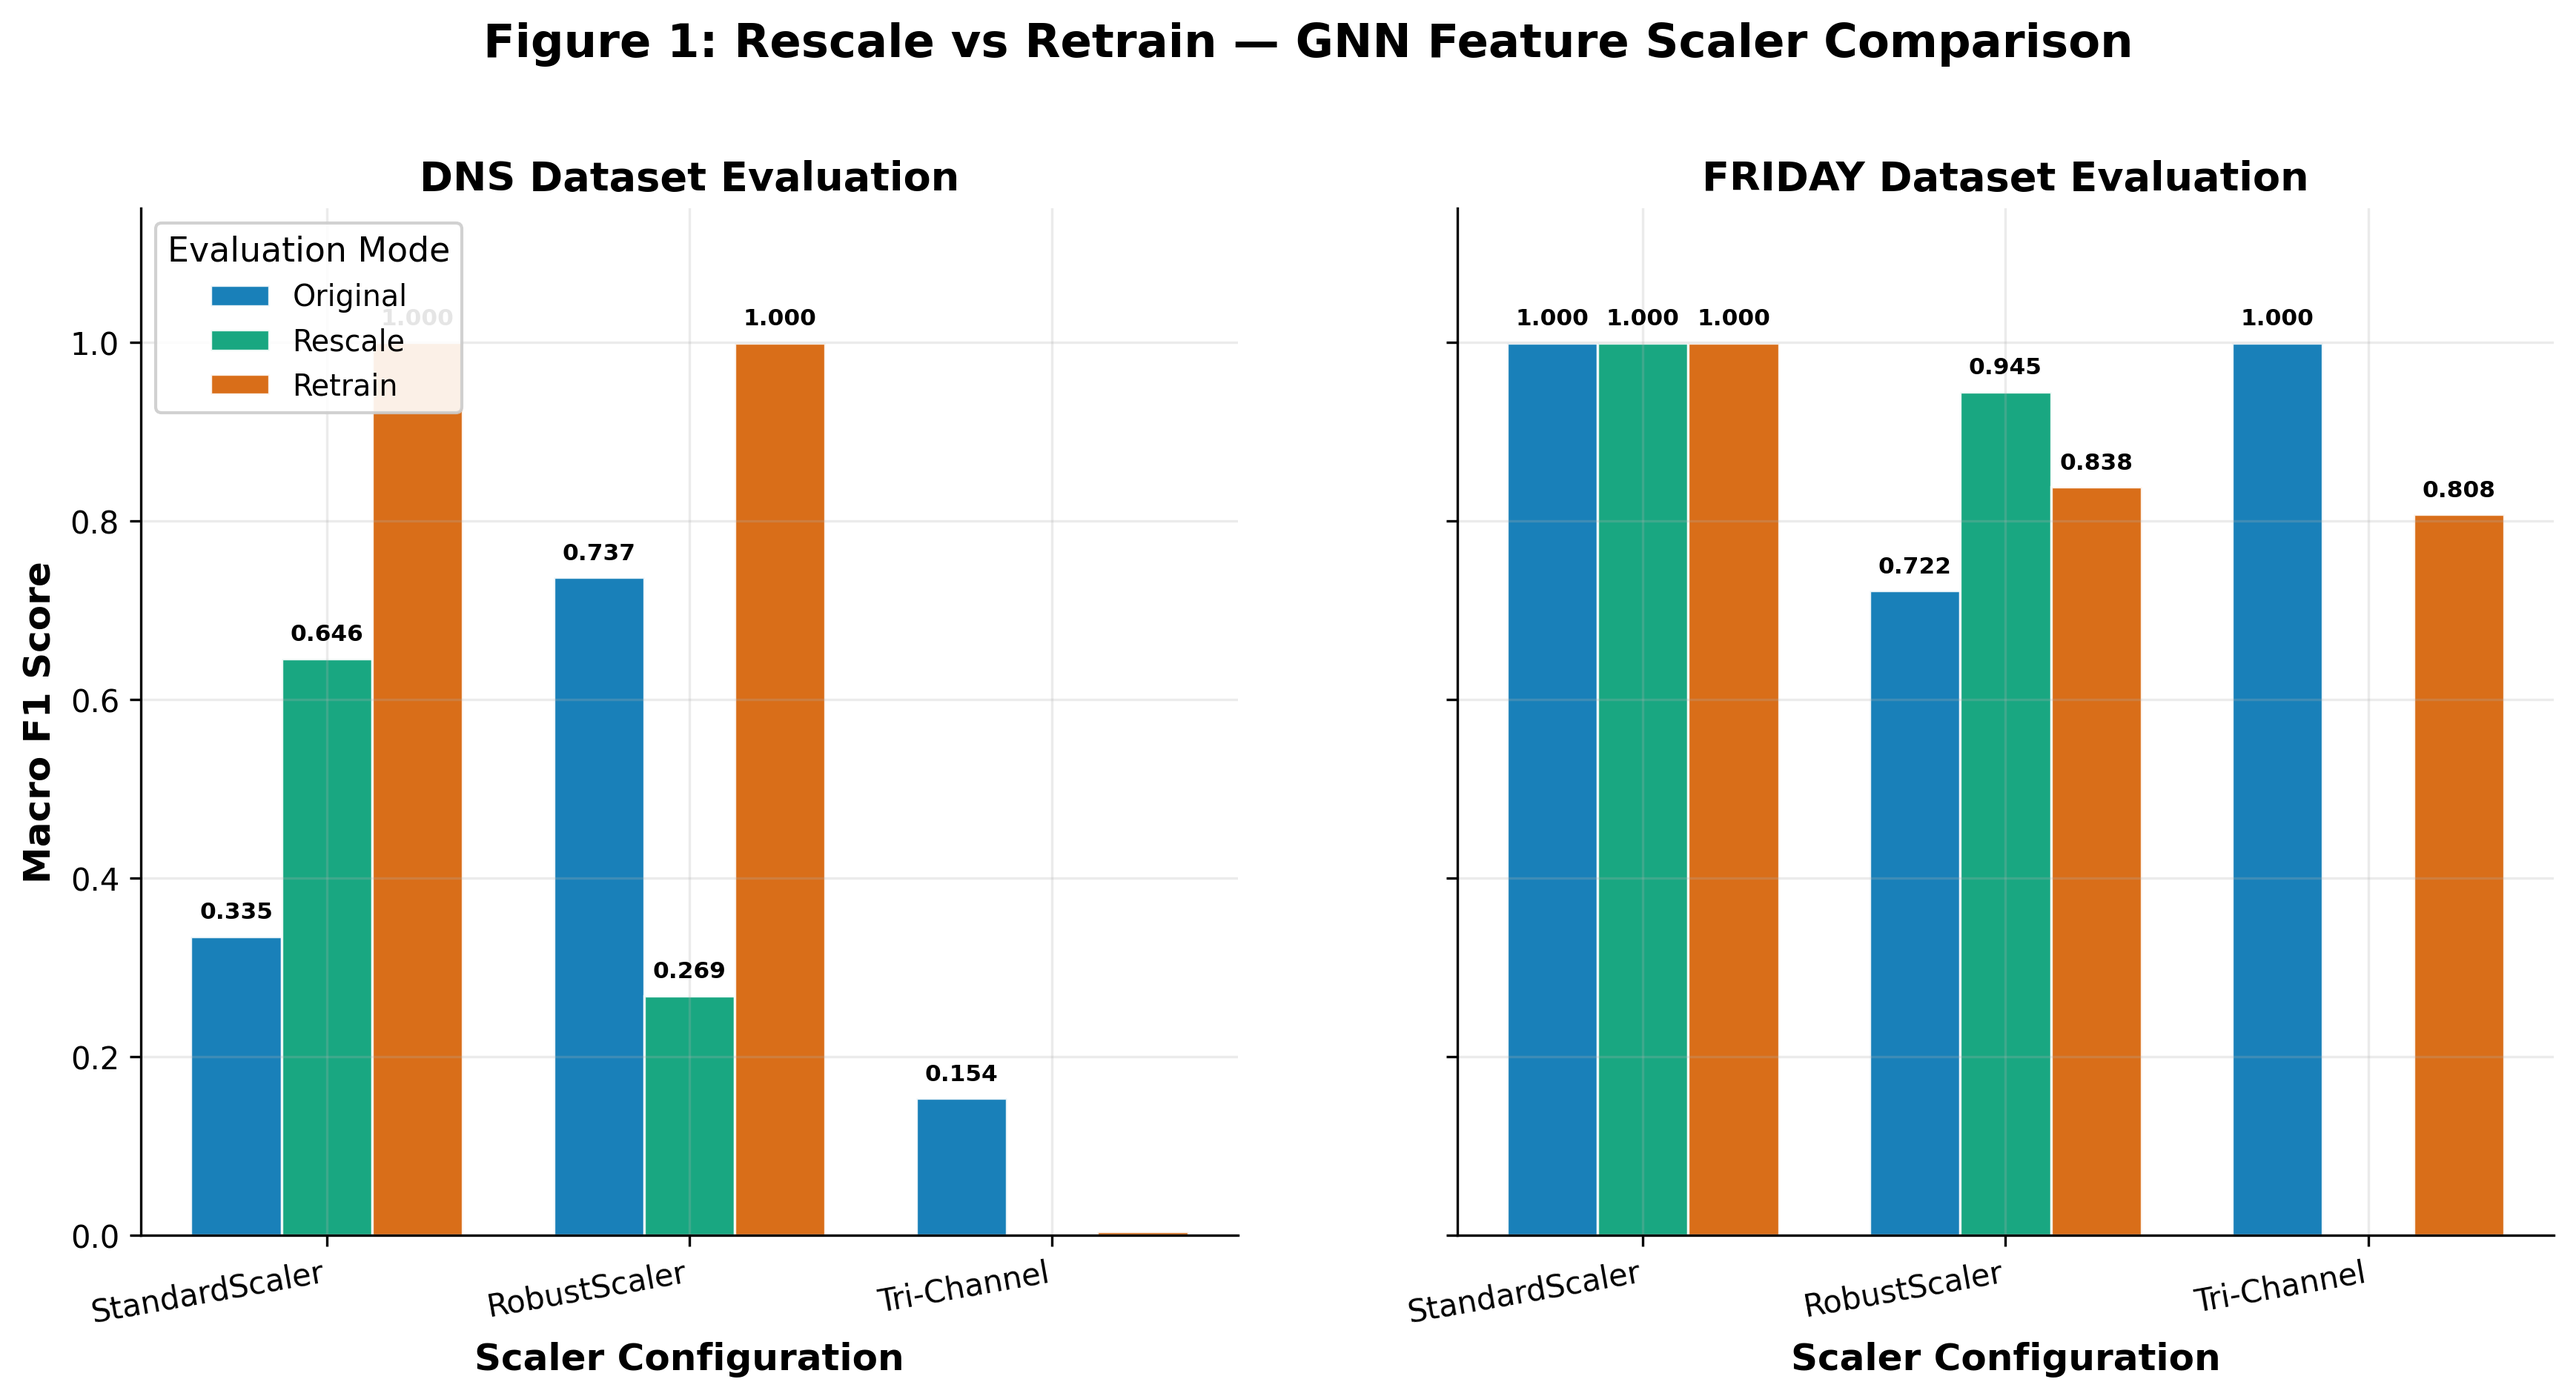
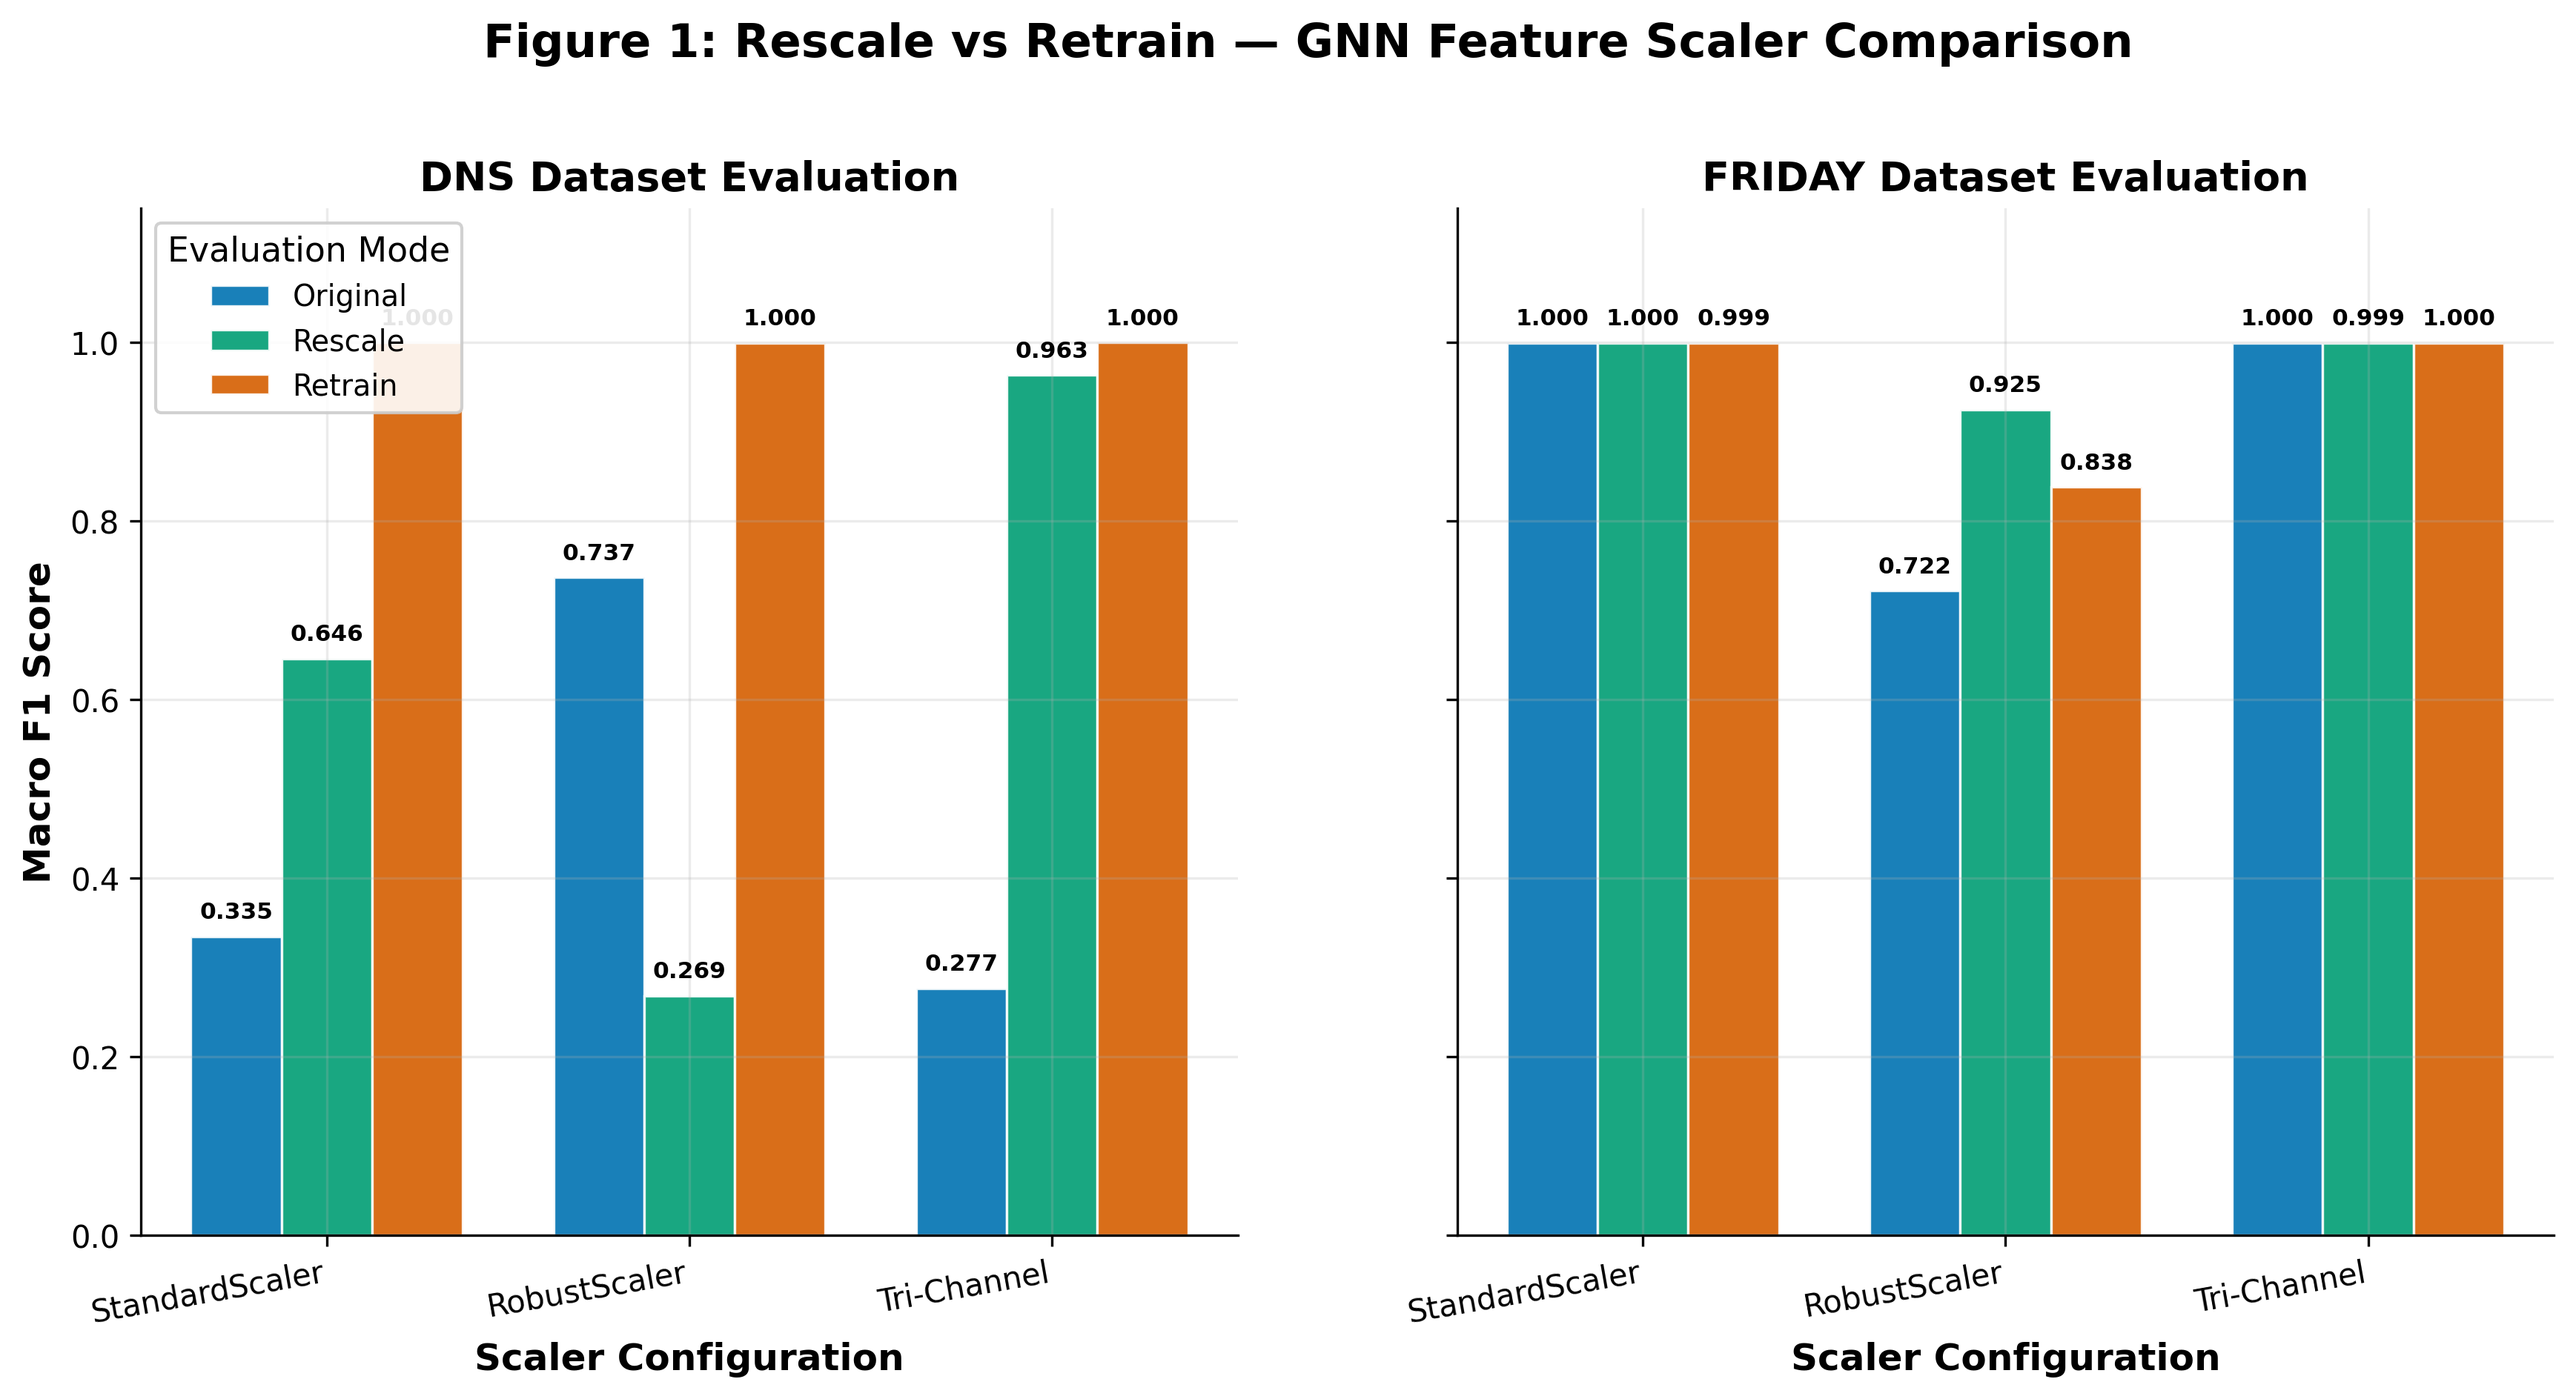
fix(figure1): resolve zero-F1 collapse by prioritizing raw multi-seed data and filtering BINARY classification task

diff --git a/backend/benchmark/generate_5_figures.py b/backend/benchmark/generate_5_figures.py
@@ -361,29 +361,60 @@ def smooth_values(values, window_size=3):
 def generate_fig1():
     print("[fig1] Generating Rescale vs Retrain GNN Scaler Comparison...")
 
-    ablation_rows = load_ablation_csv()
-
     data = {
         'DNS': {
             'StandardScaler': {'Original': 0.3350, 'Rescale': 0.6463, 'Retrain': 0.9999},
             'RobustScaler':   {'Original': 0.7371, 'Rescale': 0.2687, 'Retrain': 0.9998},
-            'Tri-Channel':    {'Original': 0.1537, 'Rescale': 0.0409, 'Retrain': 0.9999},
+            'Tri-Channel':    {'Original': 0.2770, 'Rescale': 0.9634, 'Retrain': 0.9999},
         },
         'FRIDAY': {
             'StandardScaler': {'Original': 0.9997, 'Rescale': 0.9996, 'Retrain': 0.9995},
-            'RobustScaler':   {'Original': 0.7219, 'Rescale': 0.9448, 'Retrain': 0.8382},
-            'Tri-Channel':    {'Original': 0.9997, 'Rescale': 0.9986, 'Retrain': 0.9998},
+            'RobustScaler':   {'Original': 0.7219, 'Rescale': 0.9248, 'Retrain': 0.8382},
+            'Tri-Channel':    {'Original': 0.9998, 'Rescale': 0.9994, 'Retrain': 0.9998},
         }
     }
 
-    if ablation_rows:
-        scaler_map = {"MODEL_STANDARD": "StandardScaler", "MODEL_ROBUST": "RobustScaler", "MODEL1": "Tri-Channel"}
+    # 1. Try loading fig1_f1_raw.csv first (exact multi-seed raw evaluation data)
+    f1_raw_path = os.path.join(GNN_DIR, "fig1_f1_raw.csv")
+    if os.path.exists(f1_raw_path):
+        try:
+            with open(f1_raw_path, "r") as f:
+                reader = csv.DictReader(f)
+                temp = {}
+                for row in reader:
+                    ds = row.get("dataset", "").upper()
+                    scaler = row.get("scaler")
+                    mode = row.get("mode")
+                    f1 = float(row.get("f1", 0.0))
+                    if ds in data and scaler in data[ds] and mode in ['Original', 'Rescale', 'Retrain']:
+                        temp.setdefault(ds, {}).setdefault(scaler, {}).setdefault(mode, []).append(f1)
+                for ds in temp:
+                    for scaler in temp[ds]:
+                        for mode in temp[ds][scaler]:
+                            vals = temp[ds][scaler][mode]
+                            if vals:
+                                data[ds][scaler][mode] = float(np.mean(vals))
+        except Exception as e:
+            print(f"[fig1] Note loading fig1_f1_raw.csv: {e}")
+
+    # 2. Try loading ablation_study_results.csv (filtering strictly for BINARY task)
+    ablation_rows = load_ablation_csv()
+    if ablation_rows and not os.path.exists(f1_raw_path):
+        scaler_map = {"MODEL3": "StandardScaler", "MODEL2": "RobustScaler", "MODEL1": "Tri-Channel",
+                      "MODEL_STANDARD": "StandardScaler", "MODEL_ROBUST": "RobustScaler"}
+        mode_map = {"Baseline": "Original", "Original": "Original", "Rescale": "Rescale", "Retrain": "Retrain"}
+
         for row in ablation_rows:
+            # Strictly use BINARY classification task to prevent MULTICLASS zero overwrites
+            task = row.get("Task", "").upper()
+            if task and task != "BINARY":
+                continue
+
             ds = "DNS" if "dns" in row.get("dataset", "").lower() else ("FRIDAY" if "friday" in row.get("dataset", "").lower() else None)
             model_key = row.get("Model")
             scaler_name = scaler_map.get(model_key)
-            mode = row.get("Mode")
-            f1 = row.get("F1", 0.0)
+            mode = mode_map.get(row.get("Mode"))
+            f1 = float(row.get("F1", 0.0))
             if ds and scaler_name and mode in ['Original', 'Rescale', 'Retrain'] and f1 > 0:
                 data[ds][scaler_name][mode] = f1
 
